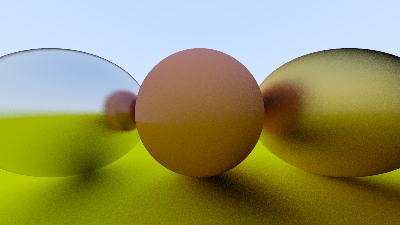
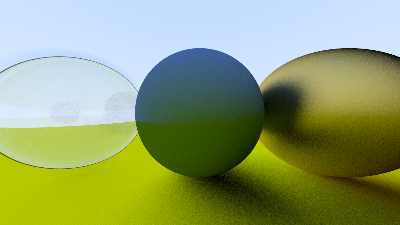
Implement dielectric material.

diff --git a/src/dielectric.rs b/src/dielectric.rs
@@ -1,0 +1,47 @@
+use crate::{hittable::HitRecord, material::Material, ray::Ray, utilities};
+use cliffy::{Vec3, Vector};
+
+pub struct Dielectric {
+    pub ir: f32, // Index of Refraction
+}
+
+impl Dielectric {
+    pub fn new(ir: f32) -> Self {
+        Self { ir }
+    }
+
+    fn reflectance(cosine: f32, ref_idx: f32) -> f32 {
+        // Use Schlick's approximation for reflectance.
+        let mut r0 = (1.0 - ref_idx) / (1.0 + ref_idx);
+        r0 = r0 * r0;
+        r0 + (1.0 - r0) * (1.0 - cosine).powf(5.0)
+    }
+}
+
+impl Material for Dielectric {
+    fn scatter(&self, r_in: &Ray, rec: &HitRecord) -> (bool, Vec3, Ray) {
+        let attenuation = Vec3::new(1.0, 1.0, 1.0);
+        let refraction_ratio = if rec.front_face {
+            1.0 / self.ir
+        } else {
+            self.ir
+        };
+
+        let unit_direction = r_in.direction.normalized();
+        let cos_theta = rec.normal.dot(-unit_direction).min(1.0);
+        let sin_theta = (1.0 - cos_theta * cos_theta).sqrt();
+
+        let cannot_refract = refraction_ratio * sin_theta > 1.0;
+        let direction;
+
+        if cannot_refract || Self::reflectance(cos_theta, refraction_ratio) > utilities::random() {
+            direction = unit_direction.reflected(rec.normal);
+        } else {
+            direction = utilities::refract(&unit_direction, &rec.normal, refraction_ratio);
+        }
+
+        let scattered = Ray::new(rec.point, direction);
+
+        (true, attenuation, scattered)
+    }
+}

diff --git a/src/main.rs b/src/main.rs
@@ -1,4 +1,5 @@
 mod camera;
+mod dielectric;
 mod hittable;
 mod hittable_list;
 mod lambertian;
@@ -17,7 +18,7 @@ use ray::Ray;
 use sphere::Sphere;
 use std::rc::Rc;
 
-use crate::{lambertian::Lambertian, metal::Metal};
+use crate::{dielectric::Dielectric, lambertian::Lambertian, metal::Metal};
 
 #[inline]
 fn clamp(x: f32, min: f32, max: f32) -> f32 {
@@ -94,8 +95,8 @@ fn main() {
     let mut world = HittableList::default();
 
     let material_ground = Rc::new(Lambertian::new(Vec3::new(0.8, 0.8, 0.0)));
-    let material_center = Rc::new(Lambertian::new(Vec3::new(0.7, 0.3, 0.3)));
-    let material_left = Rc::new(Metal::new(Vec3::new(0.8, 0.8, 0.8), 0.3));
+    let material_center = Rc::new(Lambertian::new(Vec3::new(0.1, 0.2, 0.5)));
+    let material_left = Rc::new(Dielectric::new(1.5));
     let material_right = Rc::new(Metal::new(Vec3::new(0.8, 0.6, 0.2), 1.0));
 
     world.add(Box::new(Sphere::new(
@@ -111,6 +112,11 @@ fn main() {
     world.add(Box::new(Sphere::new(
         Vec3::new(-1.0, 0.0, -1.0),
         0.5,
+        material_left.clone(),
+    )));
+    world.add(Box::new(Sphere::new(
+        Vec3::new(-1.0, 0.0, -1.0),
+        -0.45,
         material_left.clone(),
     )));
     world.add(Box::new(Sphere::new(

diff --git a/src/utilities.rs b/src/utilities.rs
@@ -58,3 +58,11 @@ pub fn near_zero(vector: &Vec3) -> bool {
     let s = 1e-8;
     vector.x < s && vector.y < s && vector.z < s
 }
+
+pub fn refract(uv: &Vec3, n: &Vec3, etai_over_etat: f32) -> Vec3 {
+    let cos_theta = n.dot(-*uv).min(1.0);
+    let r_out_perp = etai_over_etat * (*uv + cos_theta * *n);
+    let r_out_parallel = -(1.0 - r_out_perp.mag_sq()).abs().sqrt() * *n;
+
+    r_out_perp + r_out_parallel
+}
